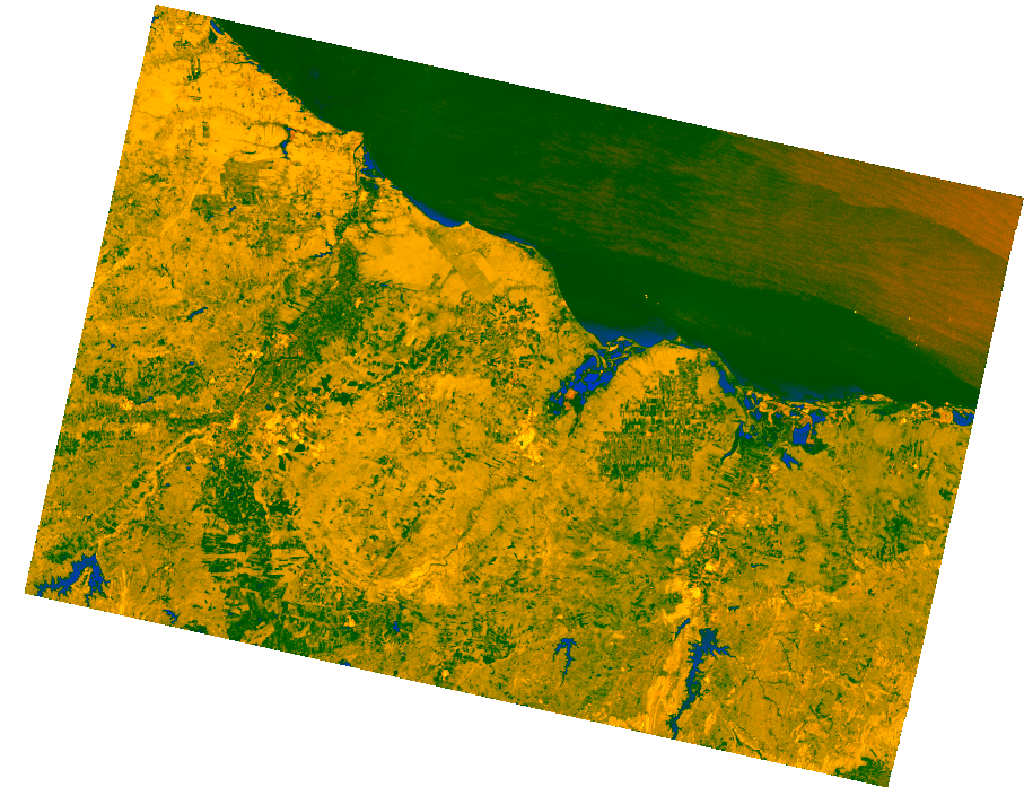
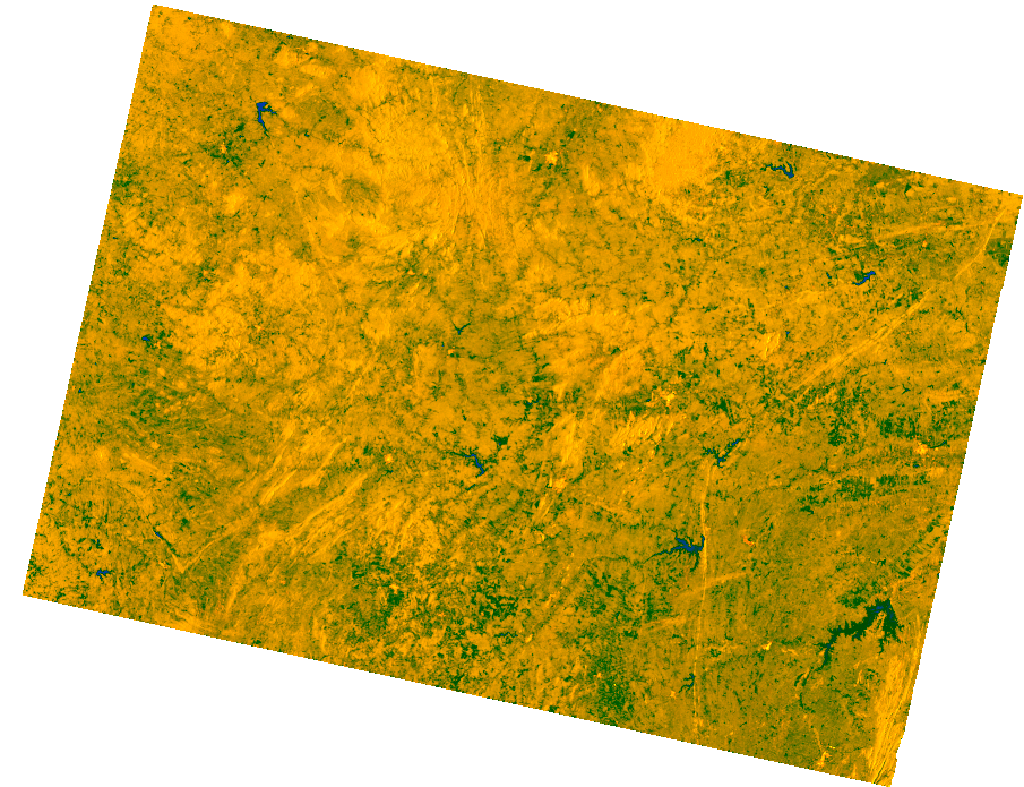
fix: distinct SAR granule for Castanhao, full basin multi-swath Sentinel-1 RTC radar layer, and default satellite basemap

diff --git a/src/components/InteractiveBasinMap.tsx b/src/components/InteractiveBasinMap.tsx
@@ -247,7 +247,7 @@ export default function InteractiveBasinMap() {
   const [isFullScreen, setIsFullScreen] = useState<boolean>(false);
 
   // Map Layer Modes: Free open layers without API key prompts!
-  const [baseMapStyle, setBaseMapStyle] = useState<"dark" | "satellite" | "osm">("dark");
+  const [baseMapStyle, setBaseMapStyle] = useState<"dark" | "satellite" | "osm">("satellite");
   const [sarOverlayMode, setSarOverlayMode] = useState<"none" | "sentinel1_rtc" | "dielectric_heatmap" | "insar_coherence">("sentinel1_rtc");
 
   // Off-Canvas Sidebar State
@@ -421,6 +421,13 @@ export default function InteractiveBasinMap() {
         `);
       });
 
+      // Force recalculation of container dimensions to ensure all map tiles load completely
+      setTimeout(() => {
+        if (map && isMounted) {
+          map.invalidateSize();
+        }
+      }, 350);
+
     }
 
     initMap();
@@ -461,14 +468,27 @@ export default function InteractiveBasinMap() {
     }
 
     if (sarOverlayMode === "sentinel1_rtc") {
-      // Live genuine Sentinel-1 RTC tile layer from Planetary Computer Titiler
+      // Live genuine multi-swath Sentinel-1 RTC tile layers covering the entire Jaguaribe Basin:
+      // Swath 1: Lower Jaguaribe / Aracati Estuary
+      // Swath 2: Middle Jaguaribe / Açude Castanhão & Orós
+      // Swath 3: Upper Jaguaribe / Sertão dos Inhamuns (Tauá)
       import("leaflet").then((L) => {
-        const s1Tile = L.default.tileLayer(
+        const s1Lower = L.default.tileLayer(
           "https://planetarycomputer.microsoft.com/api/data/v1/item/tiles/WebMercatorQuad/{z}/{x}/{y}@1x.png?collection=sentinel-1-rtc&item=S1A_IW_GRDH_1SDV_20231024T080949_20231024T081014_050904_0622D4_rtc&assets=vv&assets=vh&tile_format=png&expression=0.03%20%2B%20log%20(10e-4%20-%20log%20(0.05%20%2F%20(0.02%20%2B%202%20*%20vv)));0.05%20%2B%20exp%20(0.25%20*%20(log%20(0.01%20%2B%202%20*%20vv)%20%2B%20log%20(0.02%20%2B%205%20*%20vh)));1%20-%20log%20(0.05%20%2F%20(0.045%20-%200.9%20*%20vv))&asset_as_band=True&rescale=0,.8000&rescale=0,1.000&rescale=0,1.000&format=png",
-          { opacity: 0.85, attribution: "ESA / Copernicus Sentinel-1 RTC (ASF / Planetary Computer)" }
+          { opacity: 0.85, attribution: "Copernicus Sentinel-1 RTC Lower Jaguaribe" }
         );
-        s1Tile.addTo(map);
-        layersRef.current.sarOverlay = s1Tile;
+        const s1Middle = L.default.tileLayer(
+          "https://planetarycomputer.microsoft.com/api/data/v1/item/tiles/WebMercatorQuad/{z}/{x}/{y}@1x.png?collection=sentinel-1-rtc&item=S1A_IW_GRDH_1SDV_20231228T081758_20231228T081823_051852_064395_rtc&assets=vv&assets=vh&tile_format=png&expression=0.03%20%2B%20log%20(10e-4%20-%20log%20(0.05%20%2F%20(0.02%20%2B%202%20*%20vv)));0.05%20%2B%20exp%20(0.25%20*%20(log%20(0.01%20%2B%202%20*%20vv)%20%2B%20log%20(0.02%20%2B%205%20*%20vh)));1%20-%20log%20(0.05%20%2F%20(0.045%20-%200.9%20*%20vv))&asset_as_band=True&rescale=0,.8000&rescale=0,1.000&rescale=0,1.000&format=png",
+          { opacity: 0.85, attribution: "Copernicus Sentinel-1 RTC Castanhão & Orós" }
+        );
+        const s1Upper = L.default.tileLayer(
+          "https://planetarycomputer.microsoft.com/api/data/v1/item/tiles/WebMercatorQuad/{z}/{x}/{y}@1x.png?collection=sentinel-1-rtc&item=S1A_IW_GRDH_1SDV_20231122T081825_20231122T081850_051327_06316D_rtc&assets=vv&assets=vh&tile_format=png&expression=0.03%20%2B%20log%20(10e-4%20-%20log%20(0.05%20%2F%20(0.02%20%2B%202%20*%20vv)));0.05%20%2B%20exp%20(0.25%20*%20(log%20(0.01%20%2B%202%20*%20vv)%20%2B%20log%20(0.02%20%2B%205%20*%20vh)));1%20-%20log%20(0.05%20%2F%20(0.045%20-%200.9%20*%20vv))&asset_as_band=True&rescale=0,.8000&rescale=0,1.000&rescale=0,1.000&format=png",
+          { opacity: 0.85, attribution: "Copernicus Sentinel-1 RTC Inhamuns" }
+        );
+
+        const group = L.default.layerGroup([s1Lower, s1Middle, s1Upper]);
+        group.addTo(map);
+        layersRef.current.sarOverlay = group;
       });
     } else if (sarOverlayMode === "dielectric_heatmap") {
       // Procedural Dielectric Soil Permittivity Overlay
@@ -486,7 +506,19 @@ export default function InteractiveBasinMap() {
         layersRef.current.sarOverlay = rect;
       });
     }
+
+    // Force map to recalculate size and load all tiles cleanly
+    map.invalidateSize();
   }, [sarOverlayMode, currentMilestone]);
+
+  // Recalculate viewport size when entering/exiting fullscreen
+  useEffect(() => {
+    if (mapInstanceRef.current) {
+      setTimeout(() => {
+        mapInstanceRef.current.invalidateSize();
+      }, 300);
+    }
+  }, [isFullScreen]);
 
   return (
     <section 

diff --git a/src/components/SwipeComparator.tsx b/src/components/SwipeComparator.tsx
@@ -162,10 +162,10 @@ const HOTSPOTS: HotspotScenario[] = [
     },
     sarMeta: {
       mission: "Copernicus Sentinel-1A / C-SAR (ESA / ASF DAAC / OPERA)",
-      granule: "S1A_IW_GRDH_1SDV_20231024T080949_20231024T081014_rtc",
-      product: "Radiometric Terrain Corrected (RTC) Gamma0",
-      date: "2023-10-24",
-      polarizations: "Dual-Pol VV + VH"
+      granule: "S1A_IW_GRDH_1SDV_20231228T081758_20231228T081823_051852_064395_rtc",
+      product: "Radiometric Terrain Corrected (RTC) Gamma0 Backscatter",
+      date: "2023-12-28",
+      polarizations: "Dual-Pol VV + VH (Swath 051852 Track 082)"
     },
     opticalObservationEn: "Sun-glint, turbid algae sediment, and cloud shadows distort optical water boundary classification during critical reservoir depletion.",
     opticalObservationPt: "Reflexos solares, turbidez e sombras de nuvens distorcem o mapeamento óptico do espelho d'água durante o esvaziamento do açude.",
